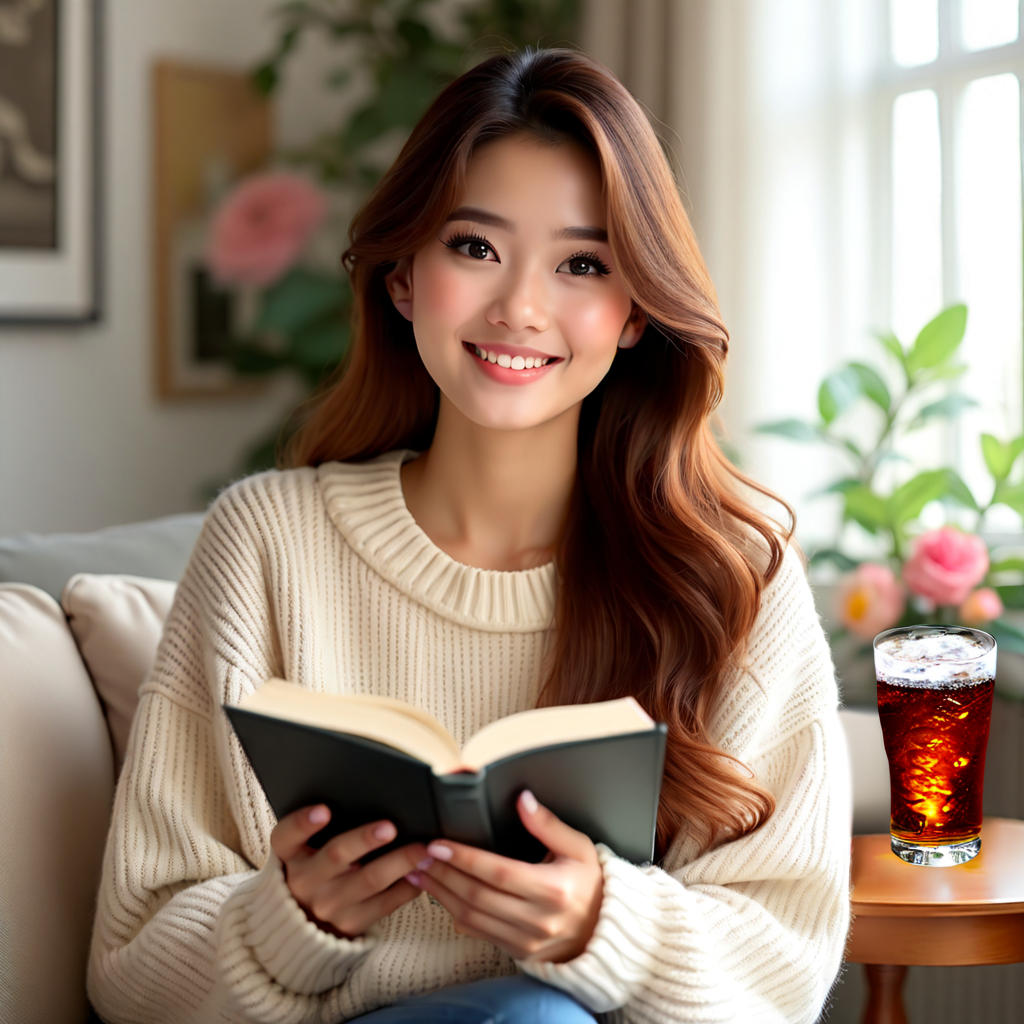
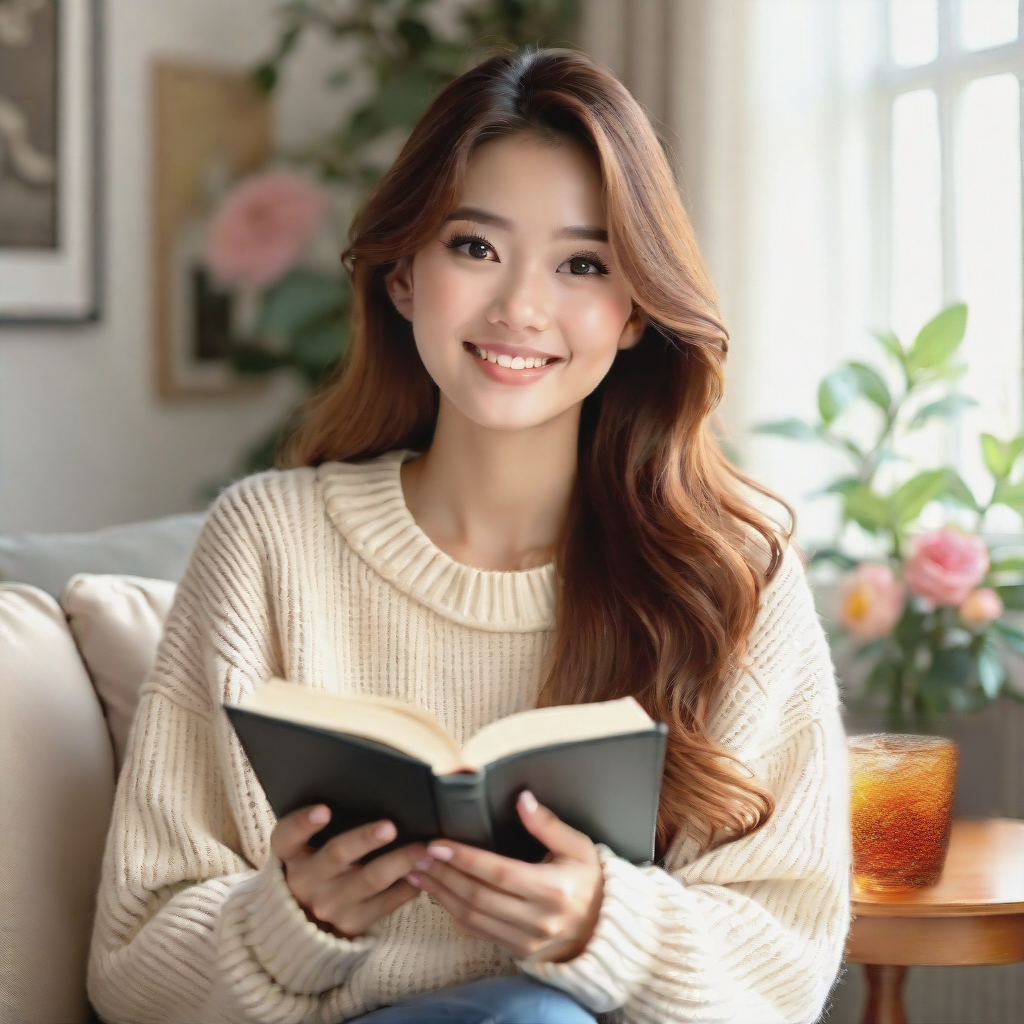
[README][Added] example

diff --git a/README.md b/README.md
@@ -1,8 +1,8 @@
 # ComfyUI_OmniGen_Wrapper
 
-![image](image/omnigen_wrapper_example.jpg)    
+![image](image/omnigen_wrapper_example.jpg)
 
-This node is an unofficial wrapper of the [OmniGen](https://github.com/VectorSpaceLab/OmniGen), running in ComfyUI.    
+This node is an unofficial wrapper of the [OmniGen](https://github.com/VectorSpaceLab/OmniGen), running in ComfyUI.
 The quantization code is from [Manni1000/OmniGen](https://github.com/Manni1000/OmniGen).
 And the base node idea was from [chflame163/ComfyUI_OmniGen_Wrapper](https://github.com/chflame163/ComfyUI_OmniGen_Wrapper).
 
@@ -62,10 +62,22 @@ You don't need the JSON files.
 
 ## How to use
 
-Start ComfyUI, right click on screen to activate the menu, find ```Add Node``` - ```😺dzNodes``` - ```OmniGen Wrapper```, the node is here.    
-![image](image/add_node.jpg)   
-Alternatively, enter OmniGen Wrapper in the node search bar to find the node.    
-![image](image/search_node.jpg)
+The examples use the prompt node from [Comfyroll](https://github.com/Suzie1/ComfyUI_Comfyroll_CustomNodes/).
+If you have the nodes manager extension just install the missing nodes from the manager.
+Otherwise manually install the Comfyroll nodes.
+
+### Very simple demo
+
+1. Drag and drop the following image in ComfyUI:
+
+![image](image/girl_demo_1024.png)
+
+2. Adjust the path for the model in **Omnigen Loader (set)** node
+3. Adjust the path for the VAE in **Load VAE** node
+
+Now you can play with this very simple workflow.
+The above image was generated using [this image](https://github.com/VectorSpaceLab/OmniGen/blob/main/imgs/demo_cases/t2i_woman_with_book.png)
+as input.
 
 ### Node Options
 
